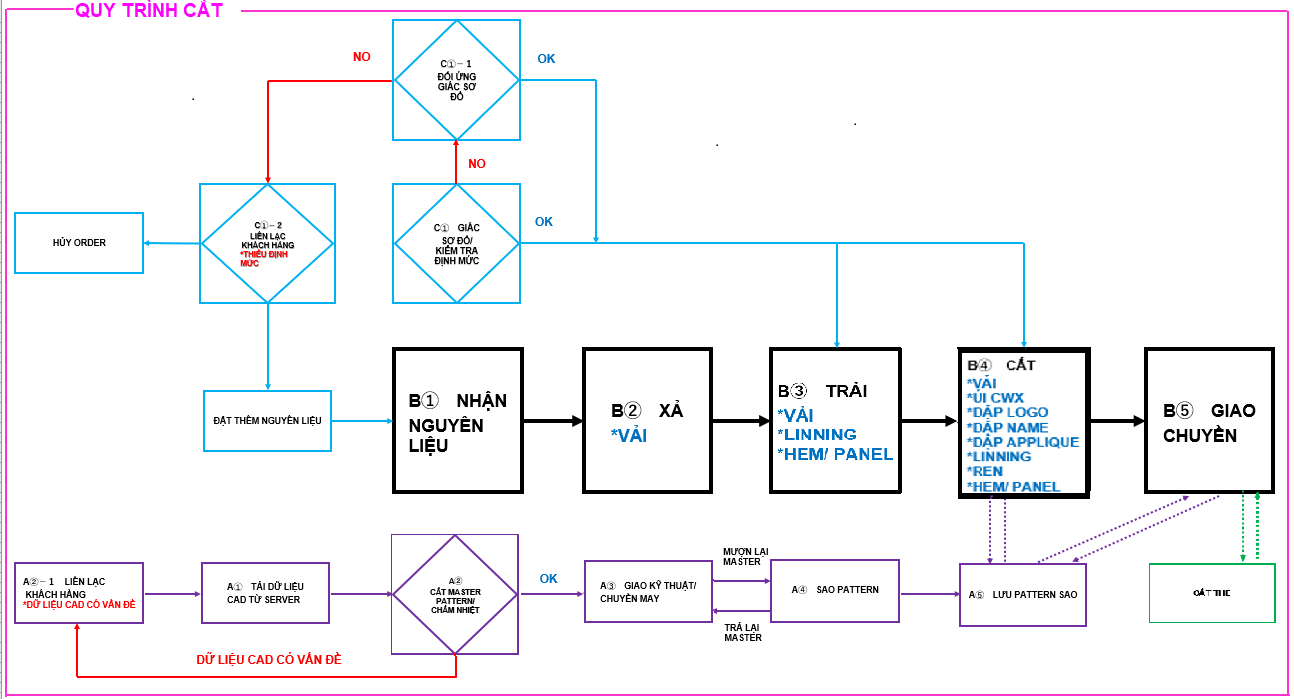
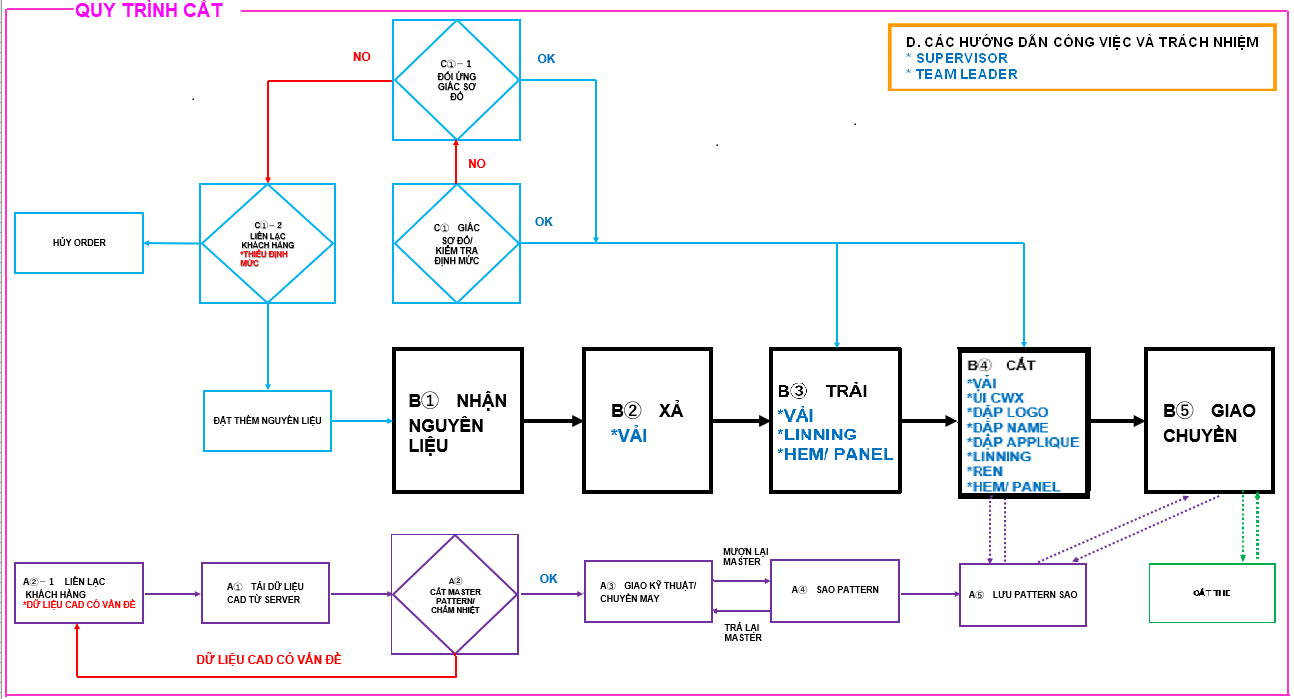
new code cat quy trinh huong dan cong viec va trach nhiem

Changed region(s): [[0.6801, 0.03, 0.9892, 0.1502]]

diff --git a/routes/Cat.Router.js b/routes/Cat.Router.js
@@ -7,6 +7,8 @@ const CatVaiControl= require('../Controlers/cat/CatVai.control')
 const CatLinningControl= require('../Controlers/cat/CatLinning.control')
 const catTraiVaiControl= require('../Controlers/cat/catTraiVai.control')
 const CatQTGiacSDControl = require('../Controlers/cat/CatQTGiacSD.control')
+const CatHDCVTNSupControl = require('../Controlers/cat/CatHDCVTNSup.control')
+const CatHDCVTNLeadControl = require('../Controlers/cat/CatHDCVTNLead.control')
 //SDTC
 router.get('/SDTC',CatControl.CatSDTC)
 //TDLCard
@@ -53,7 +55,9 @@ router.get('/XaVai',CatRenControl.XaVai)
 
 router.get('/QuyTrinhCatThe',CatControl.QuyTrinhCatThe)
 
+router.get('/CatHDCVTNSup',CatControl.CatHDCVTNSup)
 
+router.get('/CatHDCVTNLead',CatControl.CatHDCVTNLead)
 
 
 
@@ -159,6 +163,24 @@ router.get('/GiacSoDoKTDMGemini',CatQTGiacSDControl.GiacSoDoKTDMGemini)
 router.get('/GiacSoDoKTDMWacoalCad',CatQTGiacSDControl.GiacSoDoKTDMWacoalCad)
 router.get('/InSoDoWacoalCad',CatQTGiacSDControl.InSoDoWacoalCad)
 router.get('/CatSoDoToMauBangTienDoGiacSoDoGiaoXeSoDo',CatQTGiacSDControl.CatSoDoToMauBangTienDoGiacSoDoGiaoXeSoDo)
+
+//CatHDCVTNSupControl
+router.get('/CatHDCVTNSup1',CatHDCVTNSupControl.CatHDCVTNSup1)
+router.get('/CatHDCVTNSup2',CatHDCVTNSupControl.CatHDCVTNSup2)
+router.get('/CatHDCVTNSup3',CatHDCVTNSupControl.CatHDCVTNSup3)
+router.get('/CatHDCVTNSup4',CatHDCVTNSupControl.CatHDCVTNSup4)
+
+//CatHDCVTNLeadControl
+router.get('/CatHDCVTNLead1',CatHDCVTNLeadControl.CatHDCVTNLead1)
+router.get('/CatHDCVTNLead2',CatHDCVTNLeadControl.CatHDCVTNLead2)
+router.get('/CatHDCVTNLead3',CatHDCVTNLeadControl.CatHDCVTNLead3)
+router.get('/CatHDCVTNLead4',CatHDCVTNLeadControl.CatHDCVTNLead4)
+router.get('/CatHDCVTNLead5',CatHDCVTNLeadControl.CatHDCVTNLead5)
+router.get('/CatHDCVTNLead6',CatHDCVTNLeadControl.CatHDCVTNLead6)
+router.get('/CatHDCVTNLead7',CatHDCVTNLeadControl.CatHDCVTNLead7)
+router.get('/CatHDCVTNLead8',CatHDCVTNLeadControl.CatHDCVTNLead8)
+router.get('/CatHDCVTNLead9',CatHDCVTNLeadControl.CatHDCVTNLead9)
+
 
 
 

diff --git a/Controlers/cat/CatHDCVTNLead.control.js b/Controlers/cat/CatHDCVTNLead.control.js
@@ -1,0 +1,71 @@
+module.exports.CatHDCVTNLead1 = async(req, res) => {
+    res.render('Cat/CatHDCVTNLead1', {
+        title: 'Express',
+        userId: req.signedCookies.userId,
+        html: ''
+    })
+}
+
+module.exports.CatHDCVTNLead2 = async(req, res) => {
+    res.render('Cat/CatHDCVTNLead2', {
+        title: 'Express',
+        userId: req.signedCookies.userId,
+        html: ''
+    })
+}
+
+module.exports.CatHDCVTNLead3 = async(req, res) => {
+    res.render('Cat/CatHDCVTNLead3', {
+        title: 'Express',
+        userId: req.signedCookies.userId,
+        html: ''
+    })
+}
+
+module.exports.CatHDCVTNLead4 = async(req, res) => {
+    res.render('Cat/CatHDCVTNLead4', {
+        title: 'Express',
+        userId: req.signedCookies.userId,
+        html: ''
+    })
+}
+
+module.exports.CatHDCVTNLead5 = async(req, res) => {
+    res.render('Cat/CatHDCVTNLead5', {
+        title: 'Express',
+        userId: req.signedCookies.userId,
+        html: ''
+    })
+}
+
+module.exports.CatHDCVTNLead6 = async(req, res) => {
+    res.render('Cat/CatHDCVTNLead6', {
+        title: 'Express',
+        userId: req.signedCookies.userId,
+        html: ''
+    })
+}
+
+module.exports.CatHDCVTNLead7 = async(req, res) => {
+    res.render('Cat/CatHDCVTNLead7', {
+        title: 'Express',
+        userId: req.signedCookies.userId,
+        html: ''
+    })
+}
+
+module.exports.CatHDCVTNLead8 = async(req, res) => {
+    res.render('Cat/CatHDCVTNLead8', {
+        title: 'Express',
+        userId: req.signedCookies.userId,
+        html: ''
+    })
+}
+
+module.exports.CatHDCVTNLead9 = async(req, res) => {
+    res.render('Cat/CatHDCVTNLead9', {
+        title: 'Express',
+        userId: req.signedCookies.userId,
+        html: ''
+    })
+}

diff --git a/Controlers/cat/CatHDCVTNSup.control.js b/Controlers/cat/CatHDCVTNSup.control.js
@@ -1,0 +1,32 @@
+module.exports.CatHDCVTNSup1 = async(req, res) => {
+    res.render('Cat/CatHDCVTNSup1', {
+        title: 'Express',
+        userId: req.signedCookies.userId,
+        html: ''
+    })
+}
+
+module.exports.CatHDCVTNSup2 = async(req, res) => {
+    res.render('Cat/CatHDCVTNSup2', {
+        title: 'Express',
+        userId: req.signedCookies.userId,
+        html: ''
+    })
+}
+
+module.exports.CatHDCVTNSup3 = async(req, res) => {
+    res.render('Cat/CatHDCVTNSup3', {
+        title: 'Express',
+        userId: req.signedCookies.userId,
+        html: ''
+    })
+}
+
+module.exports.CatHDCVTNSup4 = async(req, res) => {
+    res.render('Cat/CatHDCVTNSup4', {
+        title: 'Express',
+        userId: req.signedCookies.userId,
+        html: ''
+    })
+}
+

diff --git a/Controlers/cat/Cat.Control.js b/Controlers/cat/Cat.Control.js
@@ -154,6 +154,24 @@ module.exports.QuyTrinhCatThe = async(req, res) => {
     })
 }
 
+module.exports.CatHDCVTNSup = async(req, res) => {
+    res.render('Cat/CatHDCVTNSup', {
+        title: 'Express',
+        userId: req.signedCookies.userId,
+        html: ''
+    })
+}
+
+module.exports.CatHDCVTNLead = async(req, res) => {
+    res.render('Cat/CatHDCVTNLead', {
+        title: 'Express',
+        userId: req.signedCookies.userId,
+        html: ''
+    })
+}
+
+
+
 
 
 
